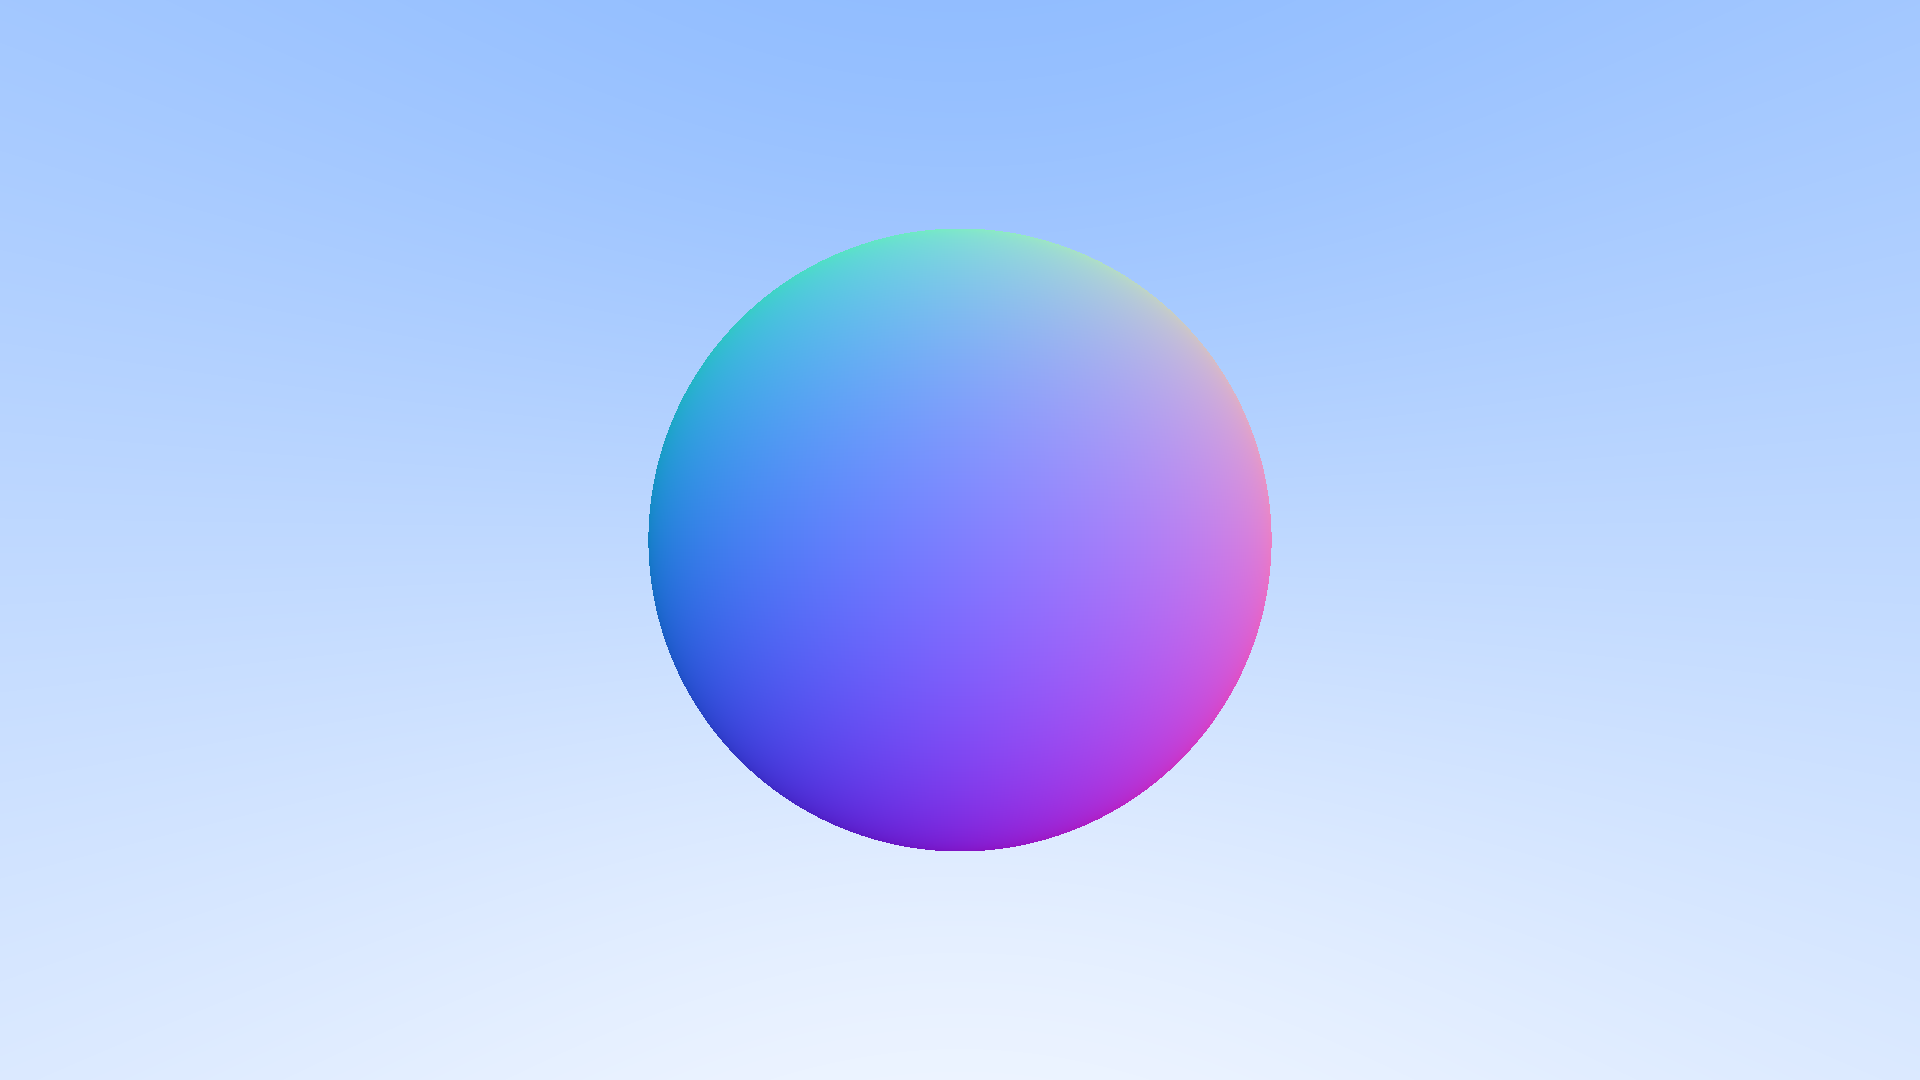
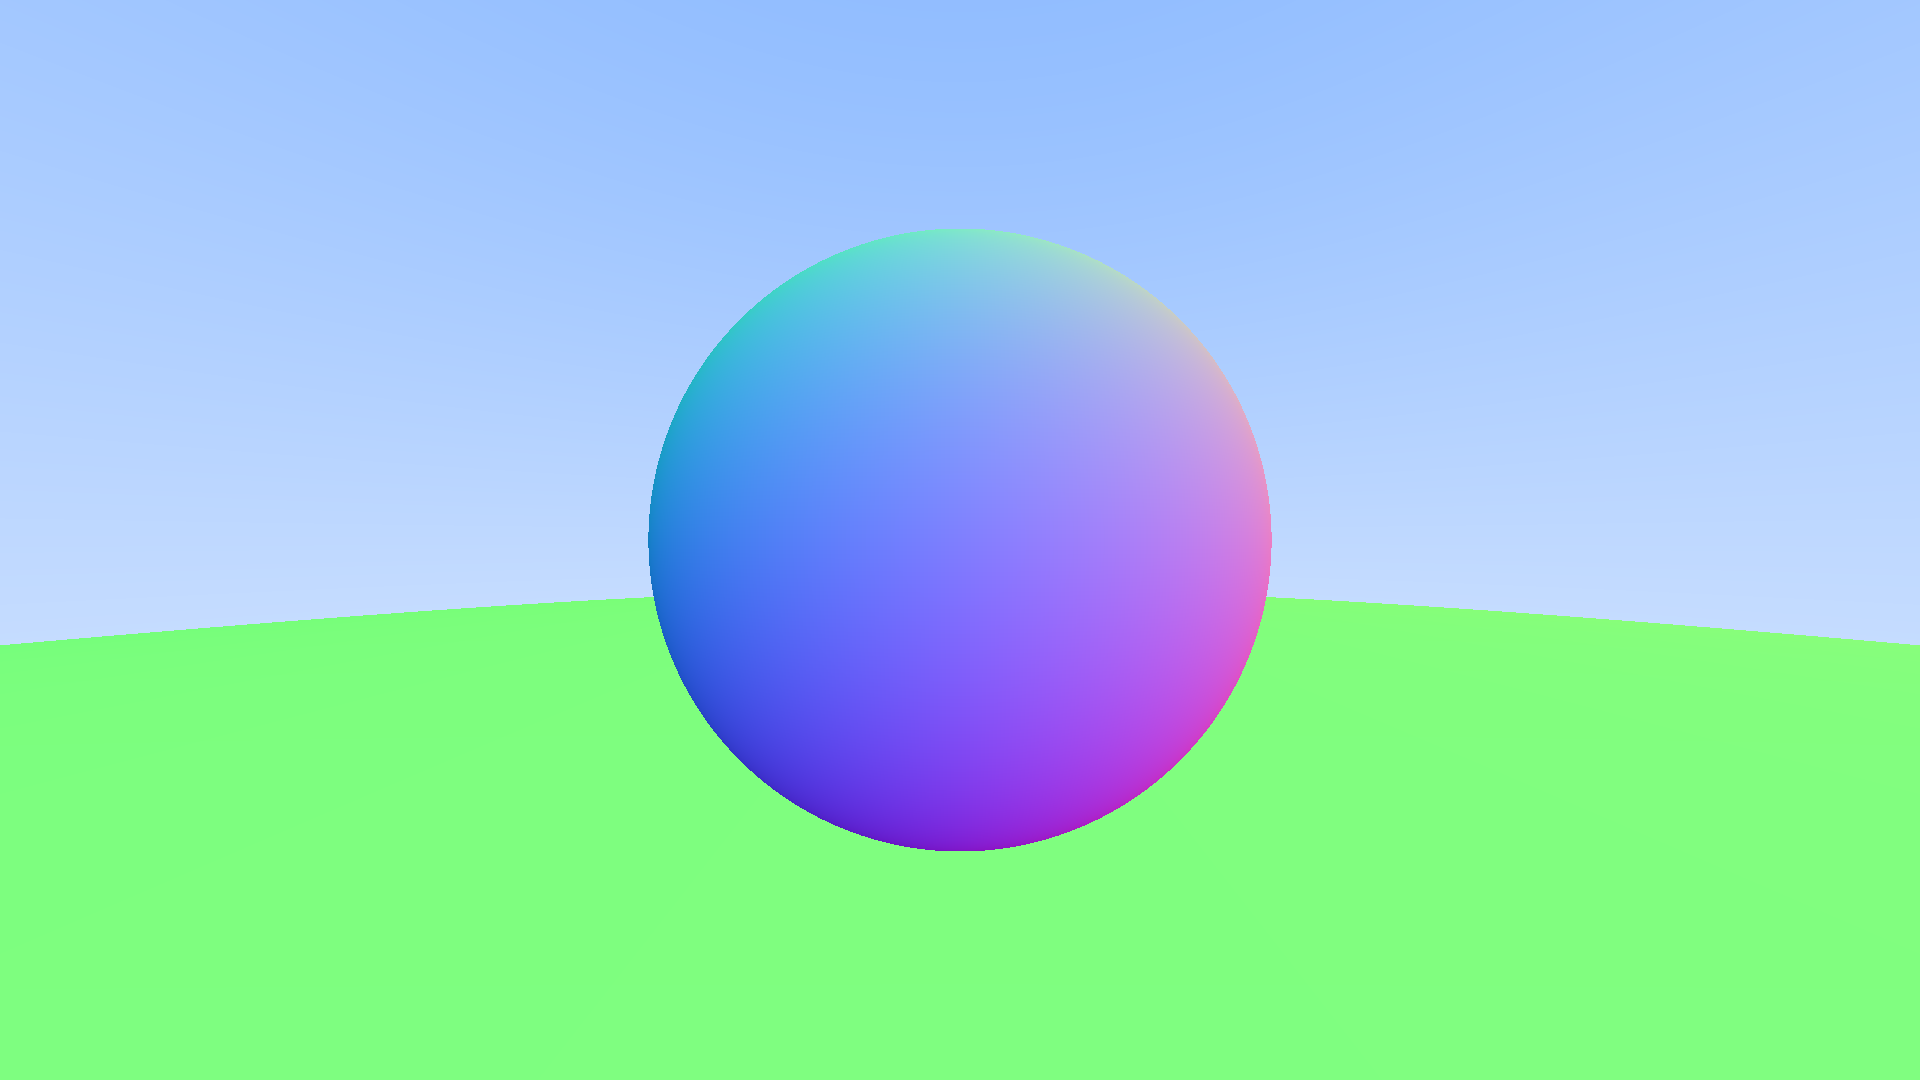
some awful update

diff --git a/src/program.cpp b/src/program.cpp
@@ -3,6 +3,7 @@
 #include <vector>
 
 #include "glms.hpp"
+#include "tools.hpp"
 #include "frame.hpp"
 
 namespace Program
@@ -27,6 +28,67 @@ namespace Program
         }
     };
 
+    struct HitRecord
+    {
+        glm::vec3 point;
+        glm::vec3 normal;
+        float t;
+
+        bool front_face;
+
+        inline void set_face_normal(const LightRay& r, const glm::vec3 outward_normal)
+        {
+            front_face = dot(r.dir, outward_normal) < 0;
+            normal = front_face ? outward_normal : -outward_normal;
+        }
+    };
+
+    struct Sphere
+    {
+        glm::vec3 center;
+        float radius;
+
+        Sphere()
+        {
+        }
+        Sphere(glm::vec3 point, float r)
+            : center(point),
+              radius(r)
+        {
+        }
+
+        bool hit(LightRay& ray, float t_min, float t_max, HitRecord& record)
+        {
+            glm::vec3 oc = ray.origin - center;
+            auto a = glm::dot(ray.dir, ray.dir);
+            auto b = glm::dot(oc, ray.dir);
+            float c = glm::dot(oc, oc) - radius * radius;
+            float discriminant = b * b - a * c;
+
+            if (discriminant < 0)
+            {
+                return false;
+            }
+
+            float squard = sqrt(discriminant);
+
+            auto root = (-b - squard) / a;
+            if (root < t_min || t_max < root)
+            {
+                root = (-b + squard) / a;
+                if (root < t_min || t_max < root)
+                    return false;
+            }
+
+            record.t = root;
+            record.point = ray.at(record.t);
+            glm::vec3 outward_normal = (record.point - center) / radius;
+            record.set_face_normal(ray, outward_normal);
+
+            return true;
+        }
+    };
+
     class Program
     {
       public:
@@ -34,7 +96,7 @@ namespace Program
         {
             const uint32_t FRAME_WIDTH = 1920;
             const uint32_t FRAME_HEIGHT = 1080;
-            const float FRAME_ASPECT = static_cast<float>(FRAME_WIDTH) / static_cast<float>(FRAME_HEIGHT);
+            const float FRAME_ASPECT = to(float, FRAME_WIDTH) / to(float, FRAME_HEIGHT);
 
             Frame ff(FRAME_WIDTH, FRAME_HEIGHT, 4);
             float viewport_height = 2.0f;
@@ -46,41 +108,23 @@ namespace Program
             glm::vec3 vertical = {0, viewport_height, 0};
             glm::vec3 lower_left = origin - 0.5f * horizontal - 0.5f * vertical - glm::vec3(0, 0, focal_length);
 
-            auto hit_sphere = [](glm::vec3 point, float r, LightRay light) -> float
-            {
-                glm::vec3 oc = light.origin - point;
-                auto a = glm::dot(light.dir, light.dir);
-                auto b = glm::dot(oc, light.dir);
-                float c = glm::dot(oc, oc) - r * r;
-                float discriminant = b * b - a * c;
-
-                if (discriminant < 0)
-                {
-                    return -1.0f;
-                }
-                else
-                {
-                    return (-b - sqrt(discriminant)) / (a);
-                }
-            };
+            Sphere sph({0, 0, -1}, 0.5);
+            Sphere sph2({0, -100.5f, -1}, 100);
+            HitRecord record;
 
             ff.for_each_pixel(
                 [&](const Frame& frame, Pixel* pixel, uint32_t x, uint32_t y)
                 {
-                    float u = (float)x / (frame.w - 1);
-                    float v = (float)y / (frame.h - 1);
+                    float u = to(float, x) / (frame.w - 1);
+                    float v = to(float, y) / (frame.h - 1);
                     LightRay r(origin, lower_left + u * horizontal + v * vertical - origin);
                     glm::vec3 direction = glm::normalize(r.dir);
                     float t = 0.5 * (direction.y + 1.0);
                     glm::vec4 color =
                         (1.0f - t) * glm::vec4(1.0, 1.0, 1.0, 1.0) + t * glm::vec4(0.5f, 0.7f, 1.0f, 1.0f);
 
-                    t = hit_sphere(glm::vec3(0, 0, -1.0f), 0.5, r);
-                    if (t > 0)
-                    {
-                        glm::vec3 N = glm::normalize(r.at(t) - glm::vec3(0, 0, -1));
-                        color = glm::vec4(0.5f * glm::vec3(N.x + 1, N.y + 1, N.z + 1), 1.0f);
-                    }
+                    
+                
 
                     Frame::set_color(color, pixel);
                 });

diff --git a/src/tools.hpp b/src/tools.hpp
@@ -1,0 +1,21 @@
+#ifndef TOOLS_HPP
+#define TOOLS_HPP
+
+#include <random>
+
+#define to(type, x) static_cast<type>(x)
+
+inline float get_random(float l, float r)
+{
+    static std::default_random_engine eng;
+    std::uniform_real_distribution dist6(l, r);
+
+    return dist6(eng);
+}
+
+inline float get_random(float r)
+{
+    return get_random(0.0f, r);
+}
+
+#endif // TOOLS_HPP
